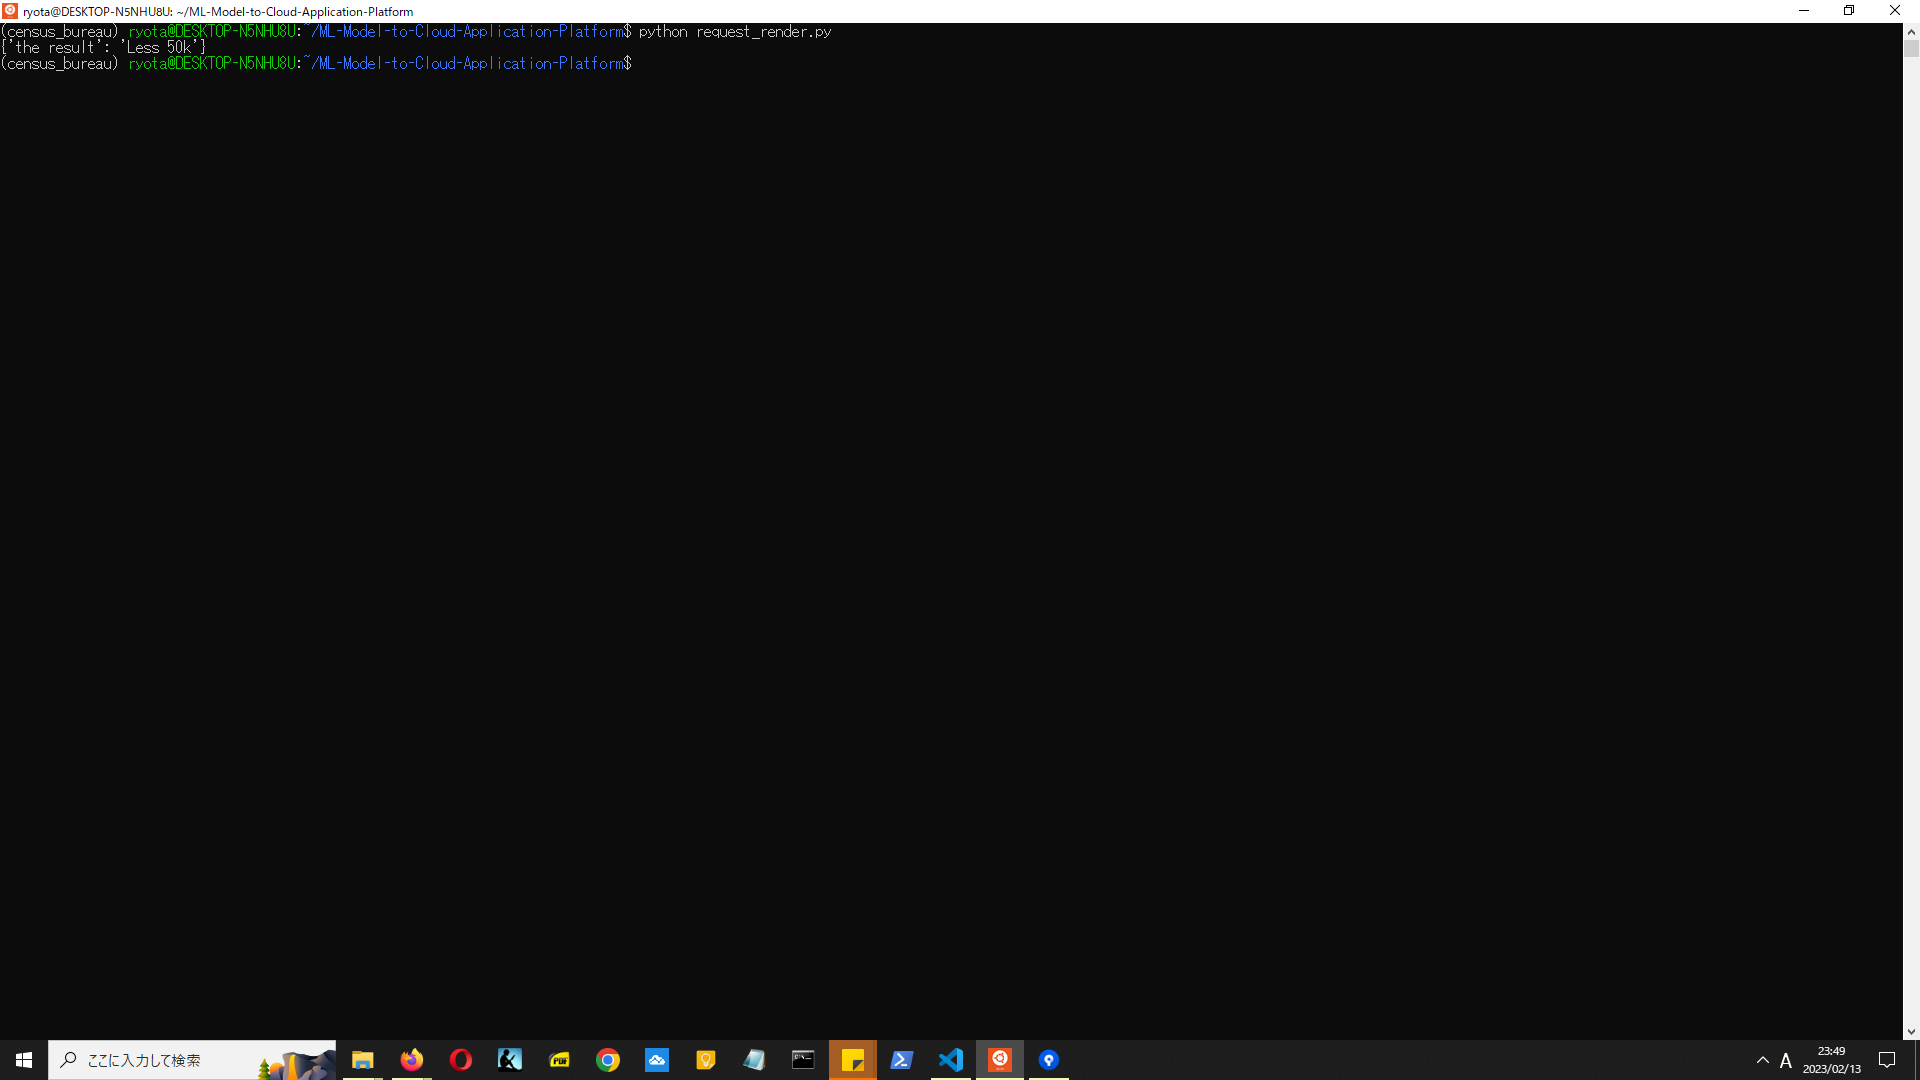
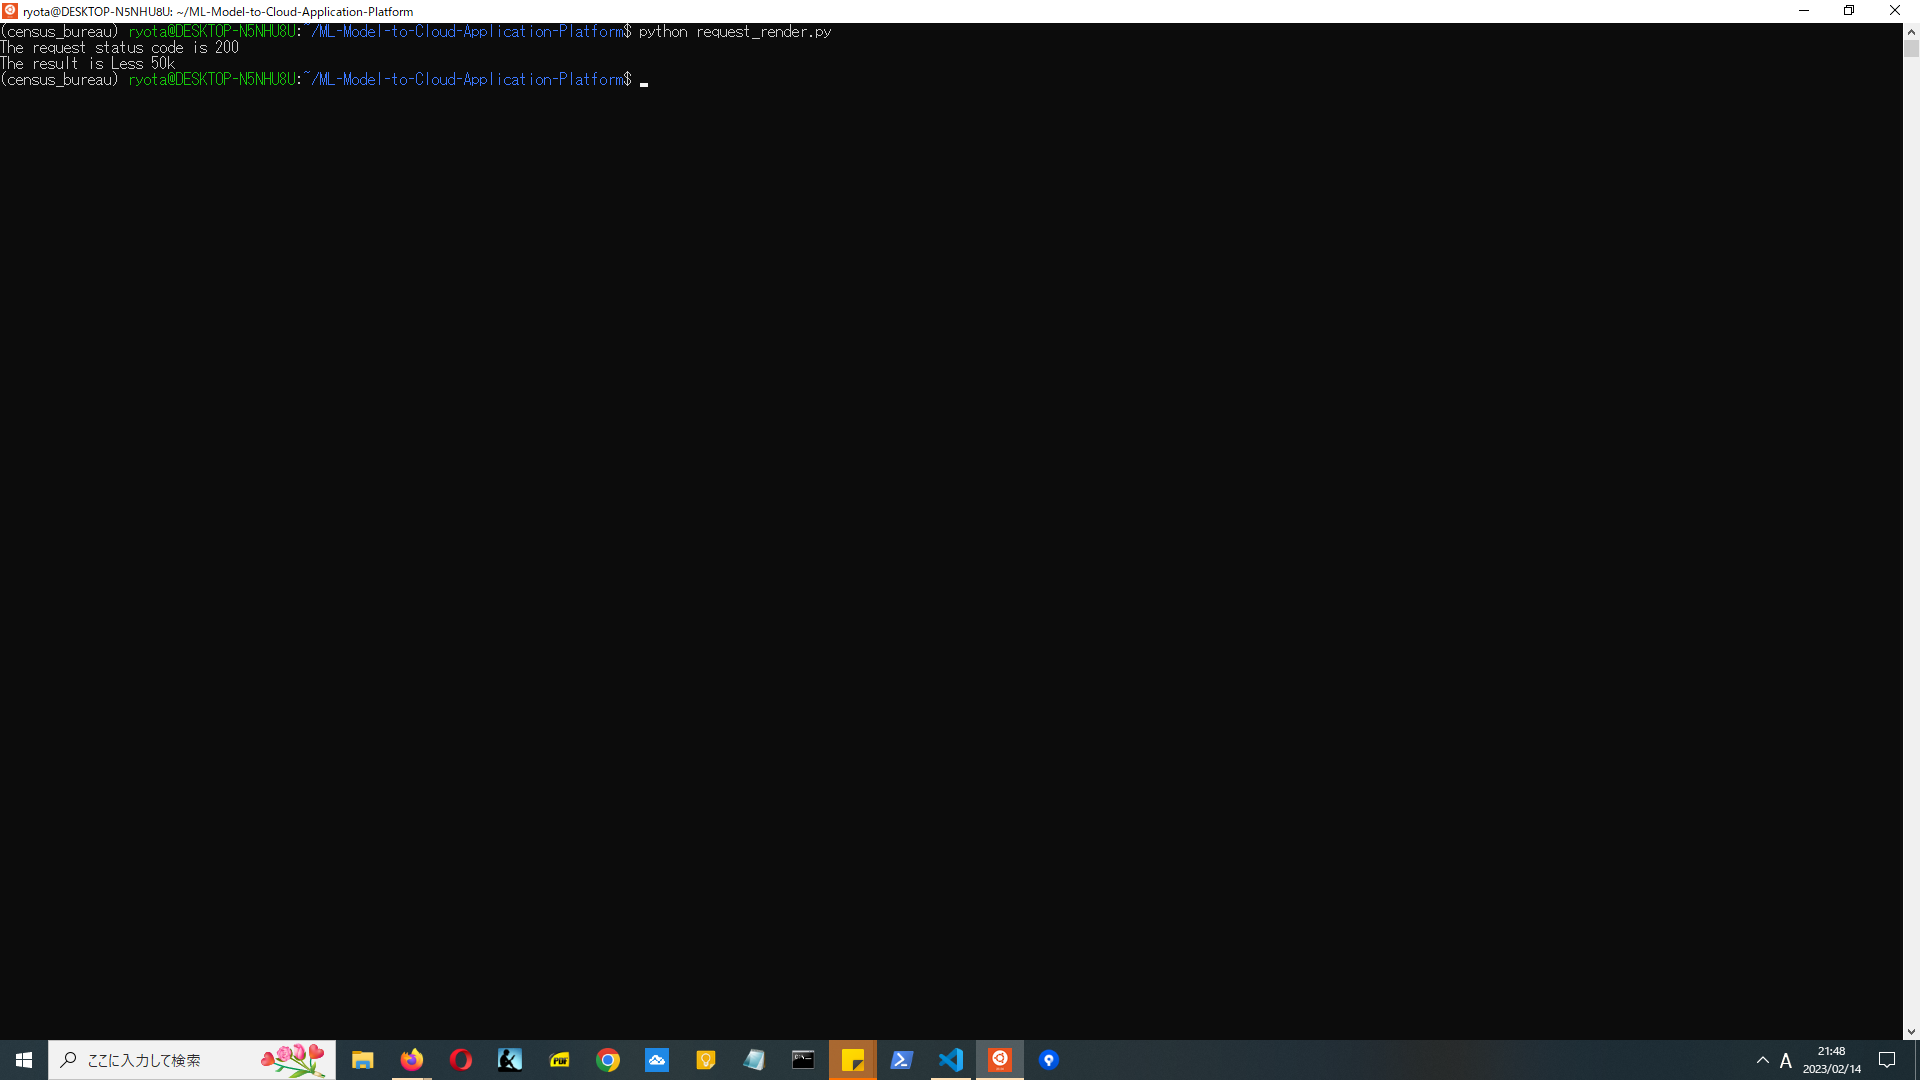
Fix issues

Changed region(s): [[0.125, 0.9472, 0.6875, 1.0], [0.0, 0.0306, 0.1562, 0.0917], [0.0, 0.9472, 0.0312, 1.0]]

diff --git a/starter/test_train_model.py b/starter/test_train_model.py
@@ -21,6 +21,7 @@ cat_features = [
     "sex",
     "native-country",
 ]
+
 X_train, y_train, encoder, lb = process_data(
     train, categorical_features=cat_features, label="salary", training=True
 )
@@ -31,17 +32,25 @@ X_test, y_test, _, _ = process_data(
     encoder=encoder, lb=lb
 )
 
-# Test checking encoder and label binarizer
-assert type(encoder) == sklearn.preprocessing._encoders.OneHotEncoder
-assert type(lb) == sklearn.preprocessing._label.LabelBinarizer
-
 model = train_model(X_train, y_train)
 preds = inference(model, X_test)
-# Test if prediction values exist
-assert len(preds) > 0
 
-precision, recall, fbeta = compute_model_metrics(y_test, preds)
+# Test checking encoder and label binarizer
+def test_encoder_and_lb(encoder, lb):
+    assert type(encoder) == sklearn.preprocessing._encoders.OneHotEncoder
+    assert type(lb) == sklearn.preprocessing._label.LabelBinarizer
+
+# Test if prediction values exist
+def test_prediction_exist(preds):
+    assert len(preds) > 0
+
 # Test metrics if values are between 0 and 1
-assert 0 < precision < 1
-assert 0 < recall < 1
-assert 0 < fbeta < 1
+def test_metrics(y_test, preds):
+    precision, recall, fbeta = compute_model_metrics(y_test, preds)
+    assert 0 < precision < 1
+    assert 0 < recall < 1
+    assert 0 < fbeta < 1
+
+test_encoder_and_lb(encoder, lb)
+test_prediction_exist(preds)
+test_metrics(y_test, preds)

diff --git a/request_render.py b/request_render.py
@@ -21,5 +21,5 @@ person = {
 # Test for request page
 request = requests.post('https://render-deployment-ml-cloud.onrender.com/predict',json=person)
 
-print(request.json())
-
+print("The request status code is {}".format(request.status_code))
+print("The result is {}".format(request.json().get('the result')))
